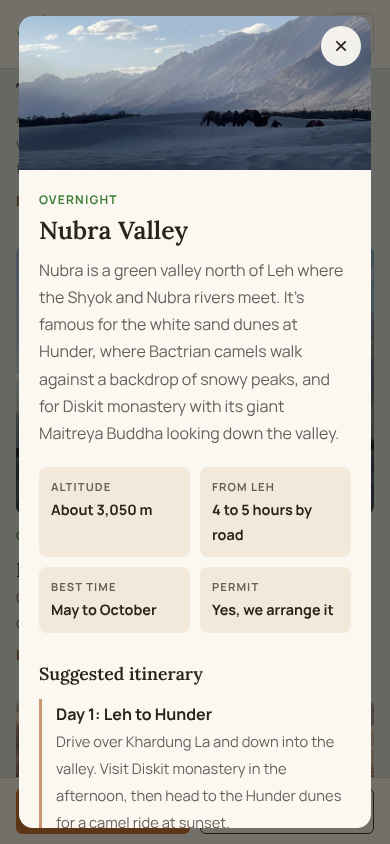
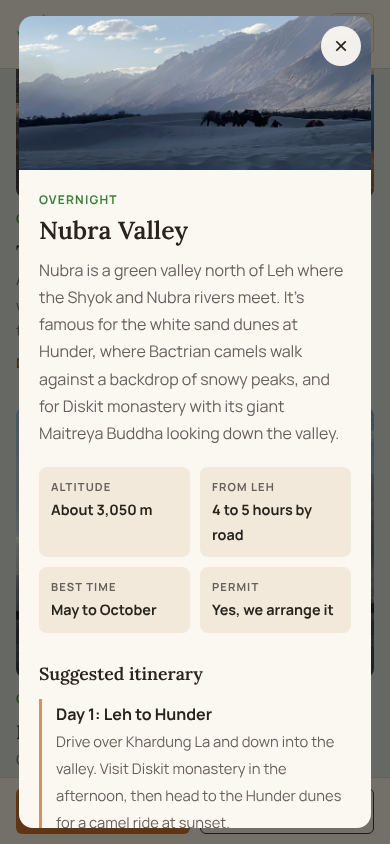
Use new experience illustrations and drop the contact card box
Claude-Session: https://claude.ai/code/session_01FT5zDj1219mgAan1ETCuww

diff --git a/assets/js/main.js b/assets/js/main.js
@@ -42,11 +42,11 @@
 
   // --- experiences: [time, title, price, includes, image, text]
   var exp=[
-    ["Sunrise","Sunrise walk to Shanti Stupa","500","refreshments included","morning_walk_to_shanti_stupa.jpeg","Set off in the cool before dawn and climb to Shanti Stupa as the first light reaches the peaks around Leh. We walk at an easy pace, then share something warm to drink while the town wakes up below."],
-    ["Sunset","Sunset walk to Tsemo","500","refreshments included","sunset_walk_to_tsemo.jpeg","Wind up through the old town lanes to Tsemo as the evening turns gold. From the top you see the whole valley, Leh Palace and the Stok range, and we stop for refreshments on the way back down."],
-    ["Half day","Picnic by the stream in Gangles","1,500","everything included","picnic_at_gangles.jpeg","Spend a slow afternoon in the village of Gangles, beside a mountain stream just outside Leh. We pack the food, the tea and the blankets; you bring your appetite and a book."],
-    ["Evening","Cook a Ladakhi meal with the family","800","dinner included","cookwithhost.jpeg","Join us in our kitchen to make a home-style Ladakhi meal, from kneading the dough to the last stir of the pot. Then sit down together and eat what you made."],
-    ["Morning","Leh old town walk","800","guided walk","old_town_walk.jpeg","Explore the narrow lanes, old houses and hidden corners of Leh's old town with someone who grew up around them. We share the stories behind the places most visitors walk straight past."]
+    ["Sunrise","Sunrise walk to Shanti Stupa","500","refreshments included","morning_walk_to_shanti_stupa.png","Set off in the cool before dawn and climb to Shanti Stupa as the first light reaches the peaks around Leh. We walk at an easy pace, then share something warm to drink while the town wakes up below."],
+    ["Sunset","Sunset walk to Tsemo","500","refreshments included","sunset_walk_to_tsemo.png","Wind up through the old town lanes to Tsemo as the evening turns gold. From the top you see the whole valley, Leh Palace and the Stok range, and we stop for refreshments on the way back down."],
+    ["Half day","Picnic by the stream in Gangles","1,500","everything included","picnic_at_gangles.png","Spend a slow afternoon in the village of Gangles, beside a mountain stream just outside Leh. We pack the food, the tea and the blankets; you bring your appetite and a book."],
+    ["Evening","Cook a Ladakhi meal with the family","800","dinner included","cookwithhost.png","Join us in our kitchen to make a home-style Ladakhi meal, from kneading the dough to the last stir of the pot. Then sit down together and eat what you made."],
+    ["Morning","Leh old town walk","800","guided walk","old%20town%20walk.png","Explore the narrow lanes, old houses and hidden corners of Leh's old town with someone who grew up around them. We share the stories behind the places most visitors walk straight past."]
   ];
   var ex=document.getElementById("expList"),checks=document.getElementById("f-exp");
   exp.forEach(function(e,i){

diff --git a/assets/css/style.css b/assets/css/style.css
@@ -153,7 +153,8 @@ fieldset{border:0;padding:0;margin:0}
 .exp{display:grid;grid-template-columns:repeat(6,minmax(0,1fr));gap:22px}
 .exp article{grid-column:span 2;background:#3D484B;border-radius:10px;overflow:hidden;display:flex;flex-direction:column}
 .exp article:nth-child(4),.exp article:nth-child(5){grid-column:span 3}
-.exp .ph{border-radius:0;aspect-ratio:3/2}
+.exp .ph{border-radius:0;aspect-ratio:4/3;background:#F7F6F2}
+.exp .ph img{object-fit:contain}
 .exp .body{padding:20px;display:flex;flex-direction:column;gap:10px;flex:1}
 .exp h3{color:var(--on-slate)}
 .exp p{color:#D7CFC2;font-size:.9375rem}
@@ -215,7 +216,7 @@ fieldset{border:0;padding:0;margin:0}
 
 /* contact */
 .contact{display:grid;grid-template-columns:minmax(0,5fr) minmax(0,7fr);gap:24px;align-items:stretch}
-.contact-card{background:var(--paper);border:1px solid var(--line);border-radius:12px;padding:clamp(22px,3vw,32px);display:flex;flex-direction:column;gap:20px}
+.contact-card{display:flex;flex-direction:column;gap:20px}
 .contact-card .btn{align-self:stretch}
 .ways{display:grid;gap:0;margin:0;padding:0;list-style:none}
 .ways li{display:flex;gap:14px;align-items:center;padding-block:14px;border-top:1px solid var(--line)}
